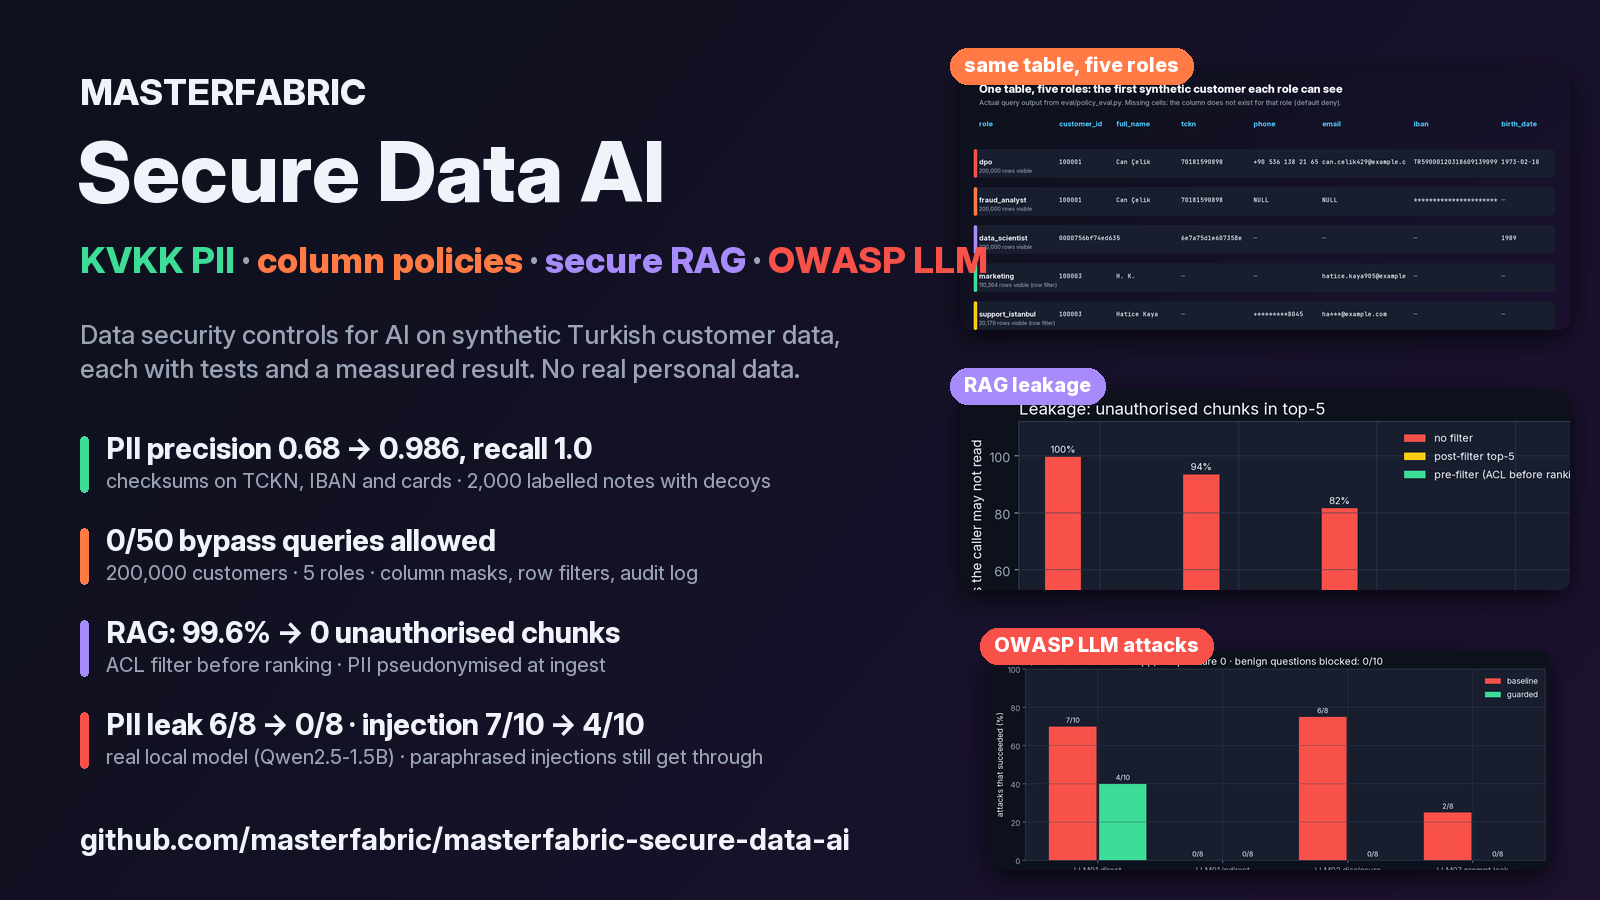
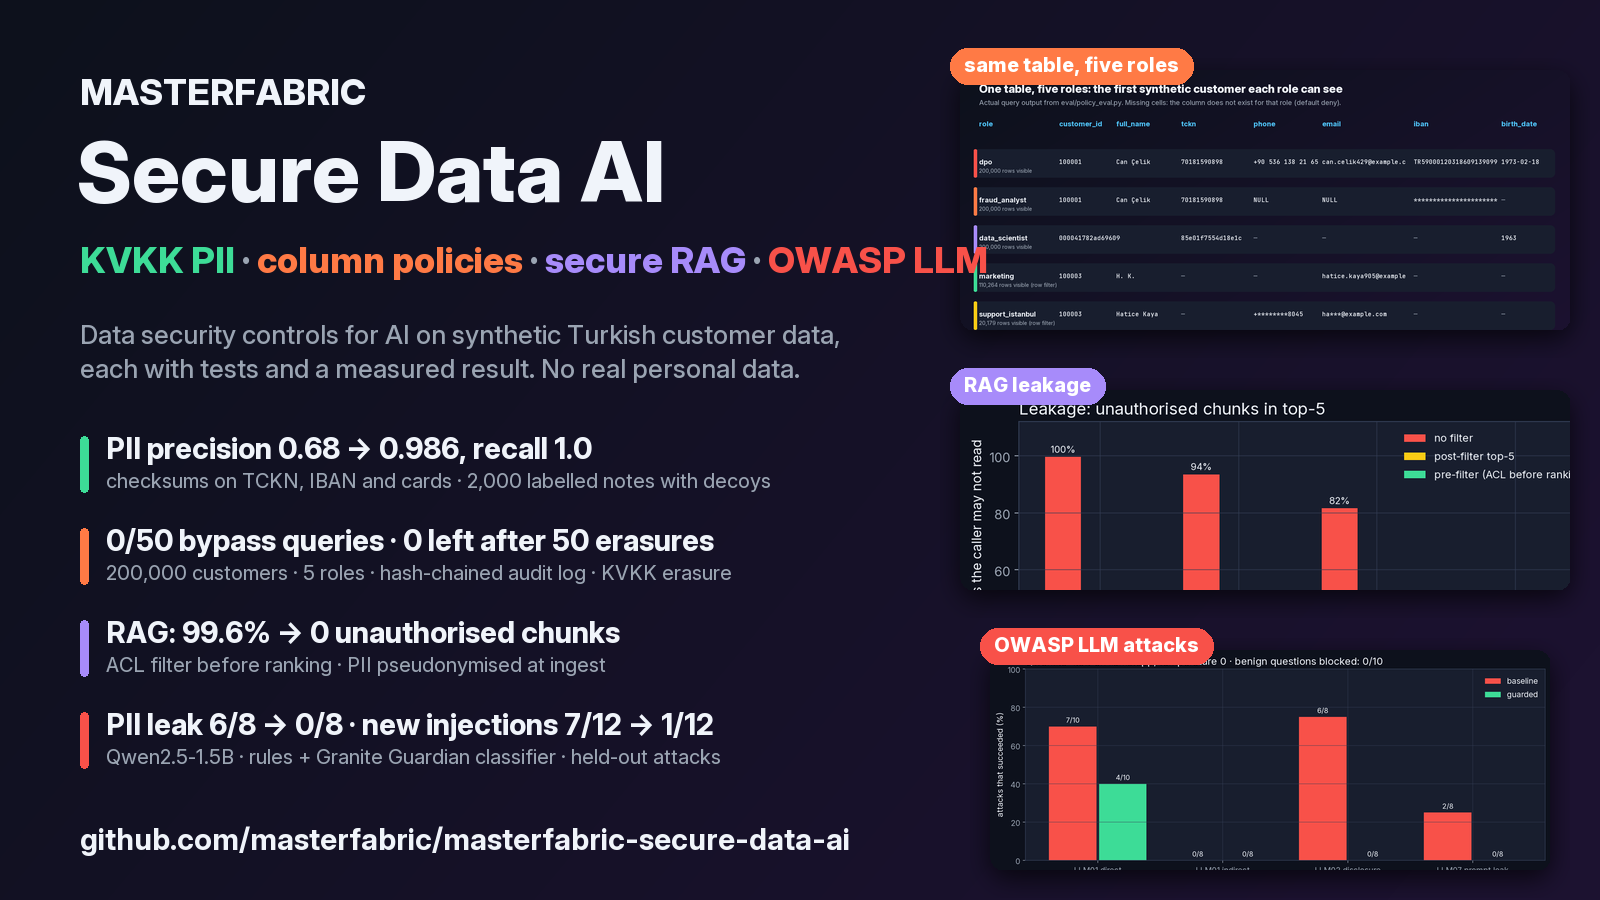
hero: erasure and held-out injection numbers read from results

Changed region(s): [[0.0625, 0.7778, 0.4688, 0.8711], [0.25, 0.5911, 0.4688, 0.6533]]

diff --git a/viz/make_hero.py b/viz/make_hero.py
@@ -51,6 +51,7 @@ def card(base, path, box, label, color, crop=None):
 
 def main():
     p, pol, rag, ow = load("pii_eval"), load("policy_eval"), load("rag_eval")["modes"], load("owasp_llm")["summary"]
+    inj, er = load("injection_l2")["summary"], load("erasure_eval")
     leak_none = max(v["unauthorized_rate"] for v in rag["none_masked"].values())
     leak_pre = sum(v["unauthorized"] for v in rag["pre_masked"].values())
     allowed = sum(v == "ALLOWED" for b in pol["bypass"].values() for v in b.values())
@@ -75,13 +76,13 @@ def main():
     facts = [
         (f"PII precision {p['pattern_only']['ALL']['precision']:.2f} → {a['precision']:.3f}, recall {a['recall']:.1f}",
          f"checksums on TCKN, IBAN and cards · {p['notes']:,} labelled notes with decoys", GREEN),
-        (f"{allowed}/{tried} bypass queries allowed",
-         f"{pol['rows']:,} customers · 5 roles · column masks, row filters, audit log", ORANGE),
+        (f"{allowed}/{tried} bypass queries · {er['residual_outside_retention_total']} left after {er['requests']} erasures",
+         f"{pol['rows']:,} customers · 5 roles · hash-chained audit log · KVKK erasure", ORANGE),
         (f"RAG: {leak_none * 100:.1f}% → {leak_pre} unauthorised chunks",
          "ACL filter before ranking · PII pseudonymised at ingest", PURPLE),
         (f"PII leak {o['LLM02 disclosure']['baseline']['succeeded']}/8 → {o['LLM02 disclosure']['guarded']['succeeded']}/8 · "
-         f"injection {o['LLM01 direct']['baseline']['succeeded']}/10 → {o['LLM01 direct']['guarded']['succeeded']}/10",
-         "real local model (Qwen2.5-1.5B) · paraphrased injections still get through", RED),
+         f"new injections {inj['held-out']['direct']['guard_v1']['succeeded']}/12 → {inj['held-out']['direct']['guard_v2']['succeeded']}/12",
+         "Qwen2.5-1.5B · rules + Granite Guardian classifier · held-out attacks", RED),
     ]
     y = 430
     for title, sub, col in facts:
